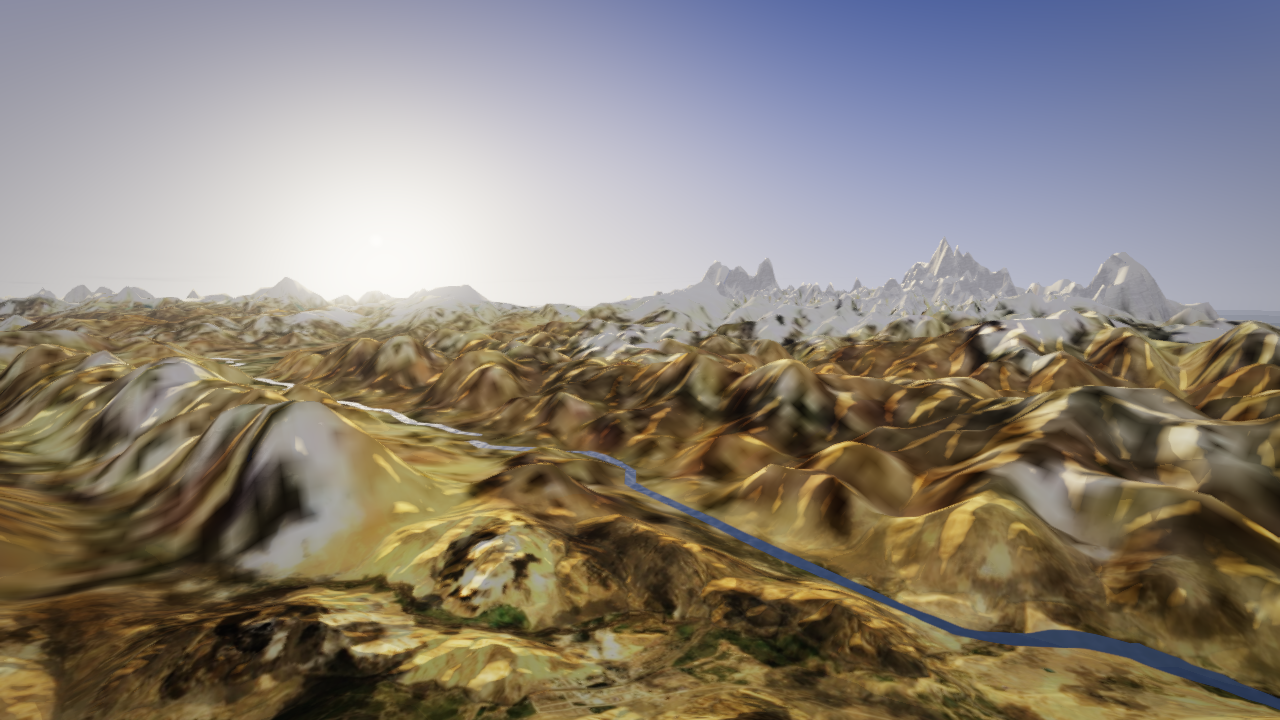
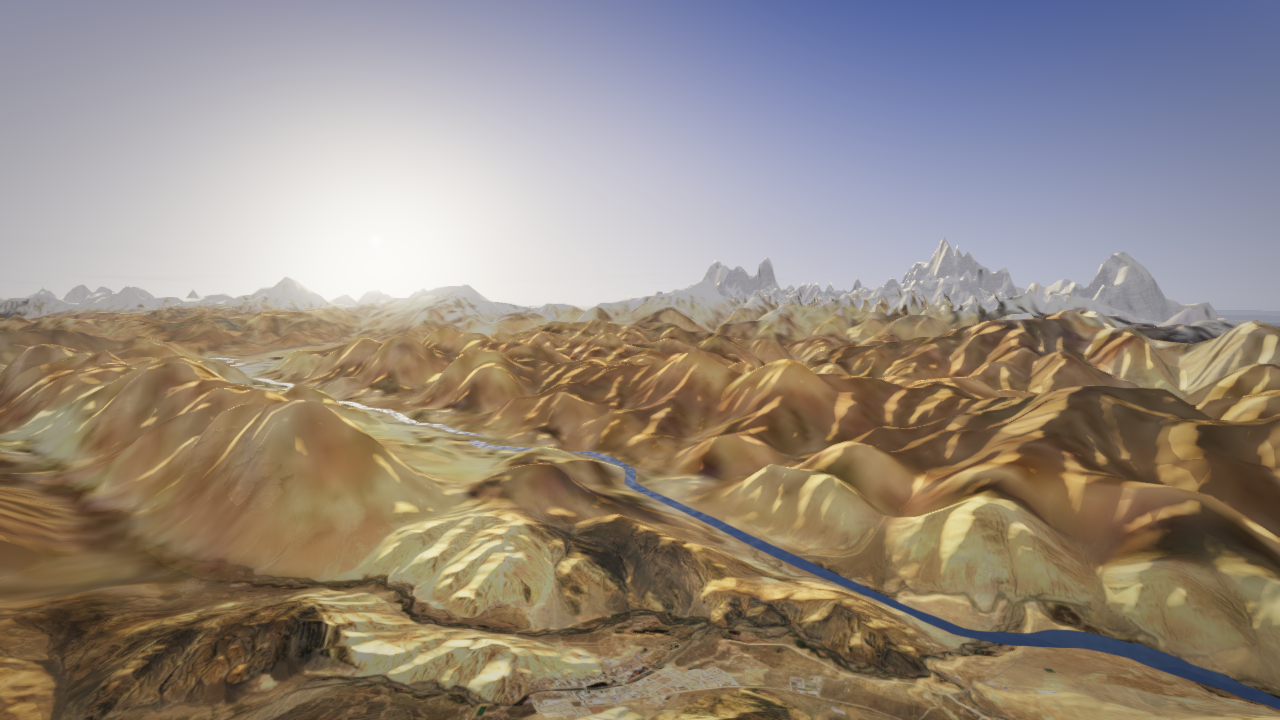
F98: the Wall's ground from high suns, its north faces lit
F97's drama of three uncovered black patches on the north faces the Wall
looks at from about 100 s: the ground's own winter shadows, baked into the
2016 mosaic, whose clear passes over the Himalaya are winter's. The Wall's
ground is now the Sentinel-2 archive's median of passes with the sun at
least 55 degrees high, March to September, as F89, F90 and F95 did the
south's:

- Everest's hero area: 200 passes at 10 m (1.3 GB), on the south's tone
  line, which is unchanged.
- The Wall's 209 country tiles join the archive region: 3,209 passes at
  160 m (3.0 GB), 201 medians by tile and orbit.
- Its rail at 10 m, and the Roof's on the 95 country tiles the two share:
  816 passes (19.8 GB), 17 medians over 100 sub-tiles.

The country catalogue grows by the tiles no cached pass covers and is never
searched again where it was, so the south's 10,100 passes and 631 medians
are unchanged, byte for byte. `make colour` composites Everest too.

Stills: the Wall 54.6 %, the Roof 1.3 %; they need signing off. The film is
1,060.1 MB.

diff --git a/pipeline/nineskies/composite.py b/pipeline/nineskies/composite.py
@@ -90,6 +90,10 @@ MAX_ITEM_CLOUD = 70
 
 #: The hero areas composited: the ones the 2016 mosaic leaves most cloud in.
 SOUTH = ("tiger-leaping-gorge", "three-gorges", "guilin", "huangshan")
+#: And Everest's, whose mosaic was cut from winter's clear passes, with the
+#: low sun's shadows black on its north faces (F98). It takes the tone line
+#: fitted over the south's four rather than joining the fit.
+COMPOSITED = (*SOUTH, "everest")
 #: Metres a pixel the source is read at: the true colour's own 10 m, which the
 #: finest colour tiles are cut at (`imagery.FINE_CELLS`).
 READ_M = 10
@@ -604,8 +608,10 @@ def build_zone(area: imagery.Area, key: str, g: UtmGrid, chosen: list[dict], roo
 # --- the country round the southern scenes (F90) ---------------------------
 
 #: The scenes whose country tiles are composited too: the south, where the
-#: 2016 mosaic's country tiles are a fifth cloud.
-SOUTH_SCENES = ("huangshan", "three-gorges", "karst", "first-bend")
+#: 2016 mosaic's country tiles are a fifth cloud; and the Wall, whose were
+#: cut from the clear passes of winter, with the low sun's shadows black on
+#: every north face the camera looks at on its way to Everest (F98).
+SOUTH_SCENES = ("huangshan", "three-gorges", "karst", "first-bend", "the-wall")
 #: A country tile's colour is 250 m, so each pass is read whole at 160 m:
 #: the true colour's sixteenth overview and the classification's eighth,
 #: which are the same grid.
@@ -691,13 +697,29 @@ def albers_tiles_of(bbox: list[float]) -> tuple[int, int, int, int]:
 
 def country_catalogue(region: set[tuple[int, int]], workers: int = 8, root: Path | None = None) -> list[dict]:
     """Every clear, high-sun item over the region, from the cache or the
-    network, searched a block of country tiles at a time."""
+    network, searched a block of country tiles at a time.
+
+    The cache grows with the region and is never searched again where it
+    was searched (F98): the catalogue gains passes as the archive does, and
+    a search made again would change which passes a tile already coloured
+    was chosen from. Where the cache says nothing of which tiles it
+    searched, a tile any cached pass covers counts as searched."""
     here = source_dir(COUNTRY, root)
     path = here / "items.json"
-    if path.exists():
-        return json.loads(path.read_text())
+    searched_path = here / "searched.json"
+    cached: list[dict] = json.loads(path.read_text()) if path.exists() else []
+    if searched_path.exists():
+        searched = {(tx, ty) for tx, ty in json.loads(searched_path.read_text())}
+    else:
+        searched = set()
+        for item in cached:
+            tx0, ty0, tx1, ty1 = albers_tiles_of(item["bbox"])
+            searched.update((tx, ty) for tx in range(tx0, tx1 + 1) for ty in range(ty0, ty1 + 1))
+    todo = region - searched
+    if not todo:
+        return cached
     blocks: dict[tuple[int, int], list[tuple[int, int]]] = {}
-    for tx, ty in region:
+    for tx, ty in todo:
         blocks.setdefault((tx // SEARCH_BLOCK, ty // SEARCH_BLOCK), []).append((tx, ty))
     query = {"eo:cloud_cover": {"lt": COUNTRY_MAX_CLOUD}, "view:sun_elevation": {"gte": MIN_SUN_DEG}}
 
@@ -707,15 +729,17 @@ def country_catalogue(region: set[tuple[int, int]], workers: int = 8, root: Path
         lons, lats = imagery.boundary_lonlat(area)
         return search_items([float(lons.min()), float(lats.min()), float(lons.max()), float(lats.max())], query)
 
-    print(f"  country: searching {len(blocks)} blocks of {len(region)} tiles", flush=True)
-    found: dict[str, dict] = {}
+    print(f"  country: searching {len(blocks)} blocks of {len(todo)} tiles", flush=True)
+    found: dict[str, dict] = {item["id"]: item for item in cached}
     with ThreadPoolExecutor(workers) as pool:
         for items in pool.map(one, [blocks[k] for k in sorted(blocks)]):
             for item in items:
-                found[item["id"]] = item
+                # A pass the cache holds already keeps its cached record.
+                found.setdefault(item["id"], item)
     items = sorted(found.values(), key=lambda i: i["id"])
     here.mkdir(parents=True, exist_ok=True)
     path.write_text(json.dumps(items, indent=0) + "\n")
+    searched_path.write_text(json.dumps(sorted([tx, ty] for tx, ty in searched | region)) + "\n")
     return items
 
 
@@ -927,7 +951,7 @@ def main(argv: list[str] | None = None) -> int:
     parser.add_argument("--workers", type=int, default=8)
     args = parser.parse_args(argv)
 
-    keys = args.only.split(",") if args.only else [*SOUTH, COUNTRY, NEAR]
+    keys = args.only.split(",") if args.only else [*COMPOSITED, COUNTRY, NEAR]
     areas = {a.key: a for a in imagery.hero_areas(args.world)}
     with_country = COUNTRY in keys
     with_near = NEAR in keys

diff --git a/pipeline/tests/test_composite.py b/pipeline/tests/test_composite.py
@@ -241,6 +241,38 @@ class TestTheCountry(unittest.TestCase):
         with tempfile.TemporaryDirectory() as tmp:
             self.assertEqual(composite.country_region(self.packs(tmp)), {self.tile})
 
+    def test_the_catalogue_grows_by_the_tiles_no_cached_pass_covers(self):
+        """F98: a scene added to the region is searched; the tiles searched
+        before are not, so the passes their colour was chosen from stay."""
+        from unittest import mock
+
+        near = self.bbox()
+        with tempfile.TemporaryDirectory() as tmp:
+            root = Path(tmp)
+            here = composite.source_dir(composite.COUNTRY, root)
+            here.mkdir(parents=True)
+            old = dict(item("old", 4, 0, tile="47RPL"), bbox=near, cloud=5, nodata=0)
+            (here / "items.json").write_text(json.dumps([old]))
+            new = dict(item("new", 5, 0, tile="45RVL"), bbox=[86.5, 27.8, 87.5, 28.8], cloud=5, nodata=0)
+            restated = dict(old, cloud=50)  # the catalogue's record of a cached pass, changed since
+            asked = []
+
+            def search(bbox, query):
+                asked.append(bbox)
+                return [new, restated]
+
+            with mock.patch.object(composite, "search_items", search):
+                items = composite.country_catalogue({self.tile, (60, 40)}, workers=1, root=root)
+                self.assertEqual(len(asked), 1)  # one block, the new tile's
+                self.assertEqual([i["id"] for i in items], ["new", "old"])
+                self.assertEqual(next(i for i in items if i["id"] == "old")["cloud"], 5)
+                # Recorded as searched: the new tile, and every tile the cached pass covers.
+                searched = set(map(tuple, json.loads((here / "searched.json").read_text())))
+                self.assertLessEqual({self.tile, (60, 40)}, searched)
+                # Asked again, nothing is searched.
+                composite.country_catalogue({self.tile, (60, 40)}, workers=1, root=root)
+                self.assertEqual(len(asked), 1)
+
     def test_a_passs_orbit_from_its_product_name(self):
         self.assertEqual(composite.relative_orbit({"s2:product_uri": "S2A_MSIL2A_20241229T035151_N0511_R104_T47RPK_20241229T073649.SAFE"}), 104)
         self.assertIsNone(composite.relative_orbit({}))

diff --git a/docs/findings.md b/docs/findings.md
@@ -1789,3 +1789,65 @@ the second time with the display held awake, and the capture refused.
 | Guilin | 30 m | 15.8 % | 0.4 % |
 | Changbai | 90 m | 0.9 % | 0.0 % |
 | Taklamakan | 90 m | 0.0 % | 0.0 % |
+
+## F98 — The Wall's ground from high suns, its north faces lit, 25 September 2026
+
+**Why.** F97 drew the Wall at a drama of three, and what the spires had
+hidden showed: from about 100 s, black patches on the snow of the north
+faces the camera looks at on its way south to Everest. They were not cloud
+shadows. The 2016 mosaic and the archive's own passes hold them in the same
+places: they were the ground's own shadows, baked into its colour. All the
+Wall's ground was the mosaic's, and over the Himalaya the mosaic's clear
+passes are winter's, the sun low in the south at the satellite's
+mid-morning. The archive's median (F89) takes only passes with the sun at
+least 55° high, which at 28° N means March to September. A north face of
+55° is lit then.
+
+**Everest's hero area first,** composited as F89 did the south's four: 200
+passes from March to September, 1.3 GB, 47 clear views a pixel at the
+median, 0.1 % filled. It takes the tone line fitted over those four and
+does not join the fit, so the line is unchanged, byte for byte. The north
+face came clean, but the patches at 114 s did not: they lay on the country
+ground just outside the hero area, coloured by the mosaic at 10 m along the
+rail (F95) and at 250 m under it.
+
+**So the Wall's country and its rail too** (`composite.py`,
+`SOUTH_SCENES`), as F90 and F95 did the south's:
+- *Its 209 country tiles:* 3,209 passes read whole at 160 m, 3.0 GB, 201
+  medians by Sentinel-2 tile and orbit.
+- *Its rail at 10 m:* 54 sub-tiles, and 46 of the Roof's. The Roof's pack
+  shares 95 of the Wall's country tiles, one colour file each, and a
+  sub-tile on an archive tile needs the archive's own detail, or is left out
+  of the cut. 816 passes, 19.8 GB, 17 medians.
+- *The catalogue grows and is never searched again where it was searched.*
+  A search made again would find passes published since, and change which
+  passes a tile already coloured was chosen from. The tiles searched are
+  kept beside it; where the cache said nothing, a tile any cached pass
+  covers counts as searched. The south's 10,100 passes are chosen as
+  before, and its 631 medians came out byte for byte the same.
+- *`make colour` composites Everest too* (`COMPOSITED`), and the notice
+  says so.
+
+**What it looks like.** The approach is brown plateau and its valleys, the
+river's among them, with no black on it anywhere. From 100 s the foothills
+are bare rock under snow on the high peaks, where the mosaic's winter had
+laid snow to their feet and shadow across it: the passes are the months
+nearer the scene's October than winter's.
+
+**The stills.** Two changed, by more than 8 levels:
+
+| Still | Changed |
+| --- | ---: |
+| The Wall | 54.6 % |
+| The Roof | 1.3 % |
+
+The other seven do not touch the Wall's tiles and were not retaken. The
+cover's Everest card changed by 15.6 %. The Wall's and the Roof's need
+signing off (D77).
+
+**The film is 1,060.1 MB**, up 29.8 MB, of the 2 GB D89 allows: the Wall's
+pack 53.9 to 73.6 MB, the Roof's 228.1 to 238.3 MB. The archive's 10 m
+colour compresses less well than the mosaic's.
+
+**Next.** Where else the mosaic's winter bakes north faces black: the
+Roof's plateau beyond the Wall's tiles, Heaven Lake's crater.

diff --git a/Nine Skies — Build Plan.md b/Nine Skies — Build Plan.md
@@ -16,7 +16,7 @@ inherits; their numbering continues here rather than starting again.
 | 4 — Delivery | **Done.** Nine packs, 16.4 MB with what is read before them (55.8 MB since the colour, F87); no tile fetched outside them; the build ships them. First frame on a phone over 4G is arithmetic, not measured. | F84 |
 | 5 — Text, sound, credits | **Text and credits done**, every figure in metric and imperial. **No sound**: a stand-in and a synthesised wind were both rejected, and all of it is to be found on the web (D85). | — |
 | 6 — Launch | Not started. | |
-| 7 — Detail | **Started.** The terrain lit smooth (D86); the ground coloured from the 2016 Sentinel-2 mosaic, and the four southern scenes, hero areas and country, from a median of the Sentinel-2 archive, 2018-2025; the hero tiles nearest the camera at 10 m, and the country's ground along each rail at 10 m too; the walls laid with photographed rock (Poly Haven's scans, CC0) over the photograph's own tone; the ground near the camera lit by its relief below the grid, from GLO-30 (125 m on the country, 30 m on the 90 m hero areas), and the country's ground along each rail at the source's own 31 m; the country within 40 km of the camera drawn at 500 m on a spline through its 1 km samples, the curtain along a hero rim lit as its ground, and the Wall at an exaggeration of three (D90). 1,030.3 MB of the 2 GB D89 allows; the terrain 2.0-2.3 ms at the northern stations and 5.7-6.3 at the southern (F95), and the 500 m level 0.3 to 0.9 ms more (F97). Next: the country's 250 m colour registered to the ground; the Wall's imagery with its own shadows divided out; the southern stations' cost found among F91-F93; the changed stills signed off (six from F92, seven from F93, three again from F94 and again from F95, six from F97). | F86, F87, F89, F90, F91, F92, F93, F94, F95, F97 |
+| 7 — Detail | **Started.** The terrain lit smooth (D86); the ground coloured from the 2016 Sentinel-2 mosaic, and the four southern scenes, hero areas and country, from a median of the Sentinel-2 archive, 2018-2025; the hero tiles nearest the camera at 10 m, and the country's ground along each rail at 10 m too; the walls laid with photographed rock (Poly Haven's scans, CC0) over the photograph's own tone; the ground near the camera lit by its relief below the grid, from GLO-30 (125 m on the country, 30 m on the 90 m hero areas), and the country's ground along each rail at the source's own 31 m; the country within 40 km of the camera drawn at 500 m on a spline through its 1 km samples, the curtain along a hero rim lit as its ground, and the Wall at an exaggeration of three (D90), its ground from the archive's high suns rather than the mosaic's winter (F98). 1,060.1 MB of the 2 GB D89 allows; the terrain 2.0-2.3 ms at the northern stations and 5.7-6.3 at the southern (F95), and the 500 m level 0.3 to 0.9 ms more (F97). Next: the country's 250 m colour registered to the ground; the mosaic's winter shadows wherever else north faces show them; the southern stations' cost found among F91-F93; the changed stills signed off (six from F92, seven from F93, three again from F94 and again from F95, six from F97, the Wall and the Roof from F98). | F86, F87, F89, F90, F91, F92, F93, F94, F95, F97, F98 |
 
 Stages 0 to 4 and most of 3 and 5 took one day against five and a half
 weeks planned.

diff --git a/NOTICE.md b/NOTICE.md
@@ -57,12 +57,15 @@ film's Albers grid, cloud flecks filled from the ground around them, and
 re-encoded as WebP. Later years of the mosaic are CC BY-NC-SA 4.0 and are
 not used (F87).
 
-## The south's colour — Copernicus Sentinel-2
+## The south's and the Wall's colour — Copernicus Sentinel-2
 
 Where that mosaic is most cloud, the south is coloured from the Sentinel-2
 archive instead: four hero areas (Tiger Leaping Gorge, the Three Gorges,
 Guilin and Huangshan), the country tiles of their four scenes, and the
-ground along those scenes' rails at 10 m (F95). Their
+ground along those scenes' rails at 10 m (F95). So is the Wall, where the
+mosaic was cut from winter's passes with every north face in shadow:
+Everest's hero area, the Wall's country tiles, 95 of them the Roof's too,
+and the ground along its rail and the Roof's on those tiles (F98). Their
 colour tiles in `dist-world/<world>/colour/`, the scene packs that carry
 them and the stills rendered from them are the median of the clear views of
 Sentinel-2 Level-2A passes from 2018 to 2025, reprojected, toned to match
